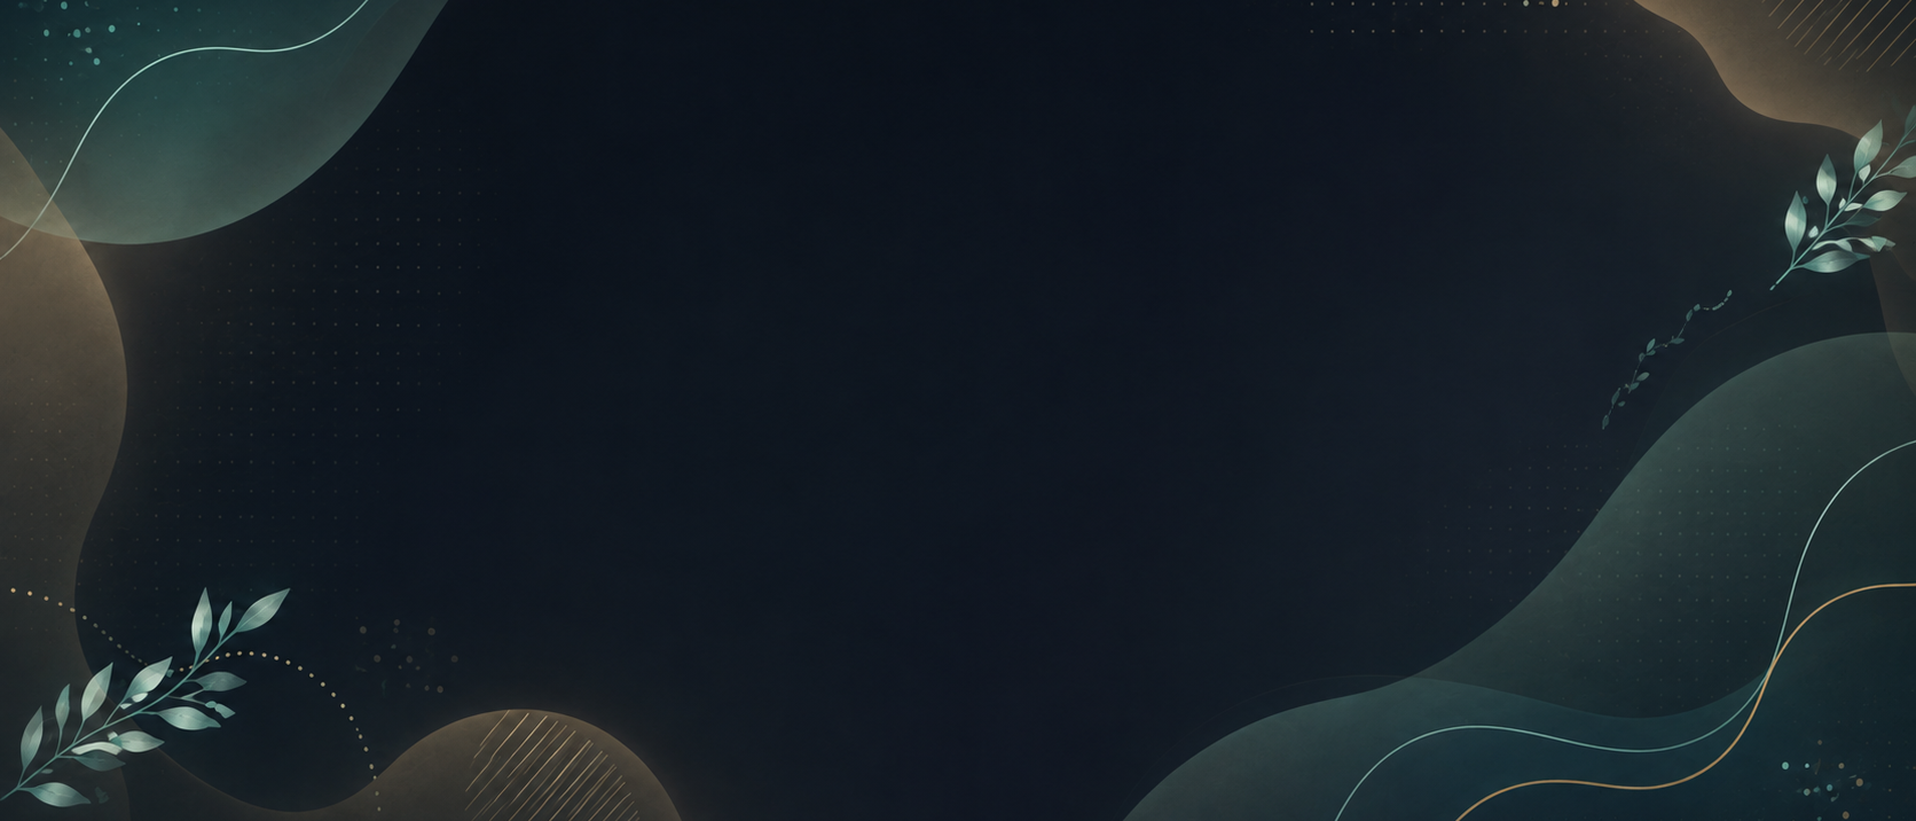
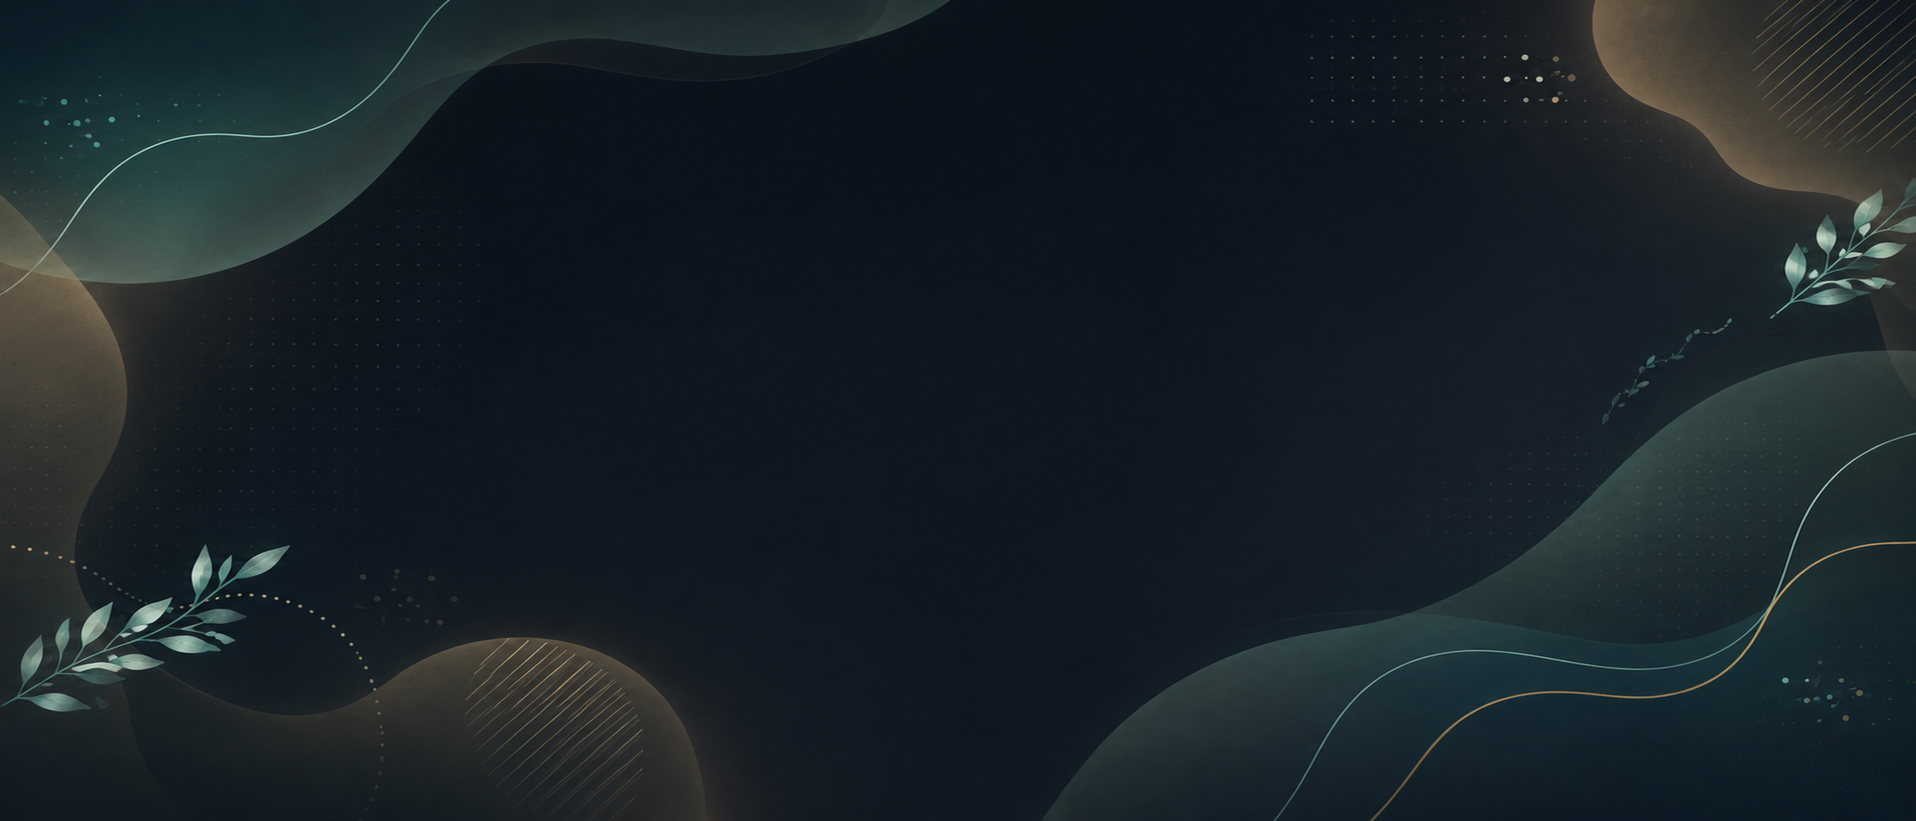
Night-mode page bg: fit full dark composition to light canvas so framing matches
Previous version cover-cropped the dark art, zooming its decorations in vs light.
Rebuild it by fitting the whole composition to light's 1916x821 canvas, so the
leaves/blobs land in the same spots under identical cover. Bump cache tag to v3.

diff --git a/resources/views/layouts/student.blade.php b/resources/views/layouts/student.blade.php
@@ -71,7 +71,7 @@
         }
         /* Night mode keeps its dark ramp — a pale wallpaper behind it would undo the point of it
            and leave the light text on the cards fighting the background. */
-        html.theme-dark body { background: var(--wl-page) url('{{ asset('images/DMgambarbg.png') }}?v=2') center center / cover no-repeat fixed; }
+        html.theme-dark body { background: var(--wl-page) url('{{ asset('images/DMgambarbg.png') }}?v=3') center center / cover no-repeat fixed; }
         .wl a { text-decoration: none; }
         /* Only plain content links get teal. Links with a class — the sidebar nav, the back button —
            carry their own colour, so the nav can read grey like the teacher rail instead of being

diff --git a/resources/views/components/cikgu-layout.blade.php b/resources/views/components/cikgu-layout.blade.php
@@ -91,7 +91,7 @@
            light image behind pale text would fight it. Set here rather than inline on <body> so the
            dark override can win. */
         body.tp { background: var(--tp-page) url('{{ asset('images/gambarbg.png') }}') center center / cover no-repeat fixed; }
-        html.theme-dark body.tp { background: var(--tp-page) url('{{ asset('images/DMgambarbg.png') }}?v=2') center center / cover no-repeat fixed; }
+        html.theme-dark body.tp { background: var(--tp-page) url('{{ asset('images/DMgambarbg.png') }}?v=3') center center / cover no-repeat fixed; }
 
         /* Shell */
         .tp-shell { min-height:100vh; display:grid; grid-template-columns:236px 1fr; }

diff --git a/resources/views/components/admin-layout.blade.php b/resources/views/components/admin-layout.blade.php
@@ -90,7 +90,7 @@
            around them. Dark mode drops the photo. Set here rather than inline on <body> so the dark
            override can win. */
         body.tp { background: var(--tp-page) url('{{ asset('images/gambarbg.png') }}') center center / cover no-repeat fixed; }
-        html.theme-dark body.tp { background: var(--tp-page) url('{{ asset('images/DMgambarbg.png') }}?v=2') center center / cover no-repeat fixed; }
+        html.theme-dark body.tp { background: var(--tp-page) url('{{ asset('images/DMgambarbg.png') }}?v=3') center center / cover no-repeat fixed; }
 
         /* Shell */
         .tp-shell { min-height:100vh; display:grid; grid-template-columns:236px 1fr; }
